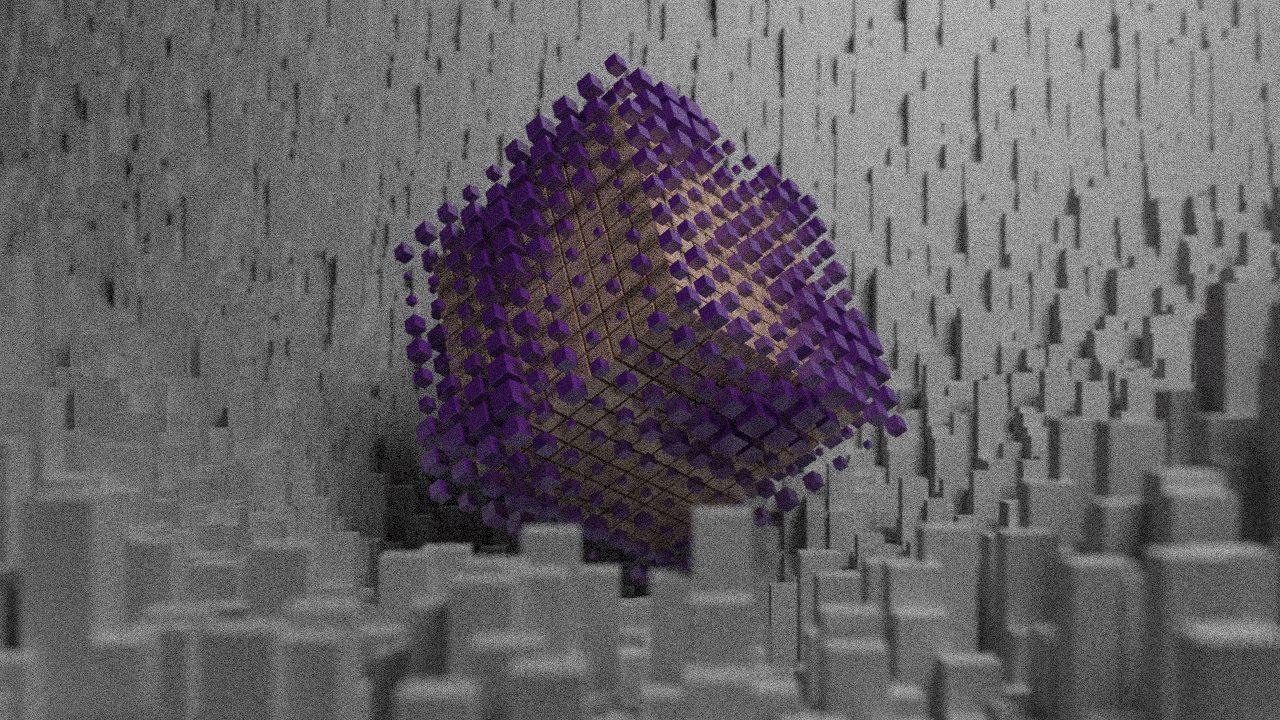
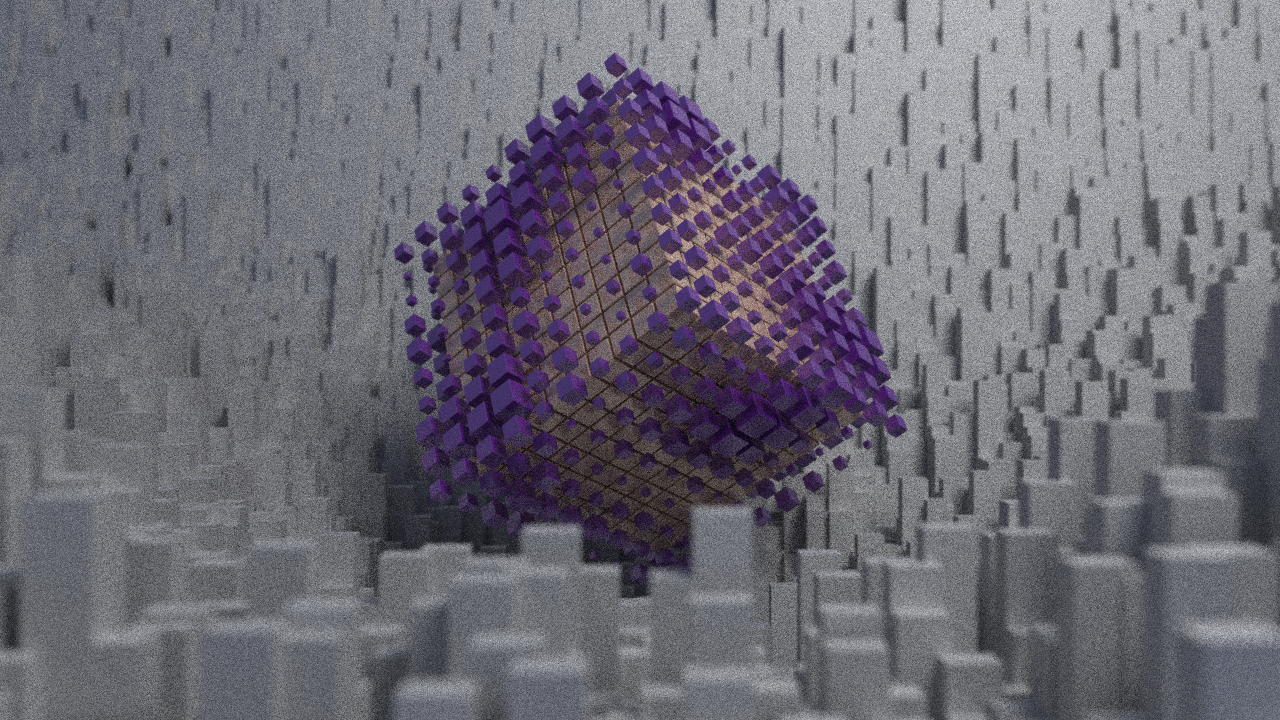
added background color - gpu version

diff --git a/apps/VulkanPathTracePrototype.cpp b/apps/VulkanPathTracePrototype.cpp
@@ -38,7 +38,8 @@ struct MaterialUniformBufferObject
 };
 struct PushConstantsSample
 {
-  int32_t nSamples;
+  alignas(4) int32_t nSamples;
+  alignas(4) Vec3f backgroundColor;
 };
 
 
@@ -191,7 +192,7 @@ public:
     return nullptr;
   }
 
-  void transferDataToGPU(Scene& scene, uint32_t renderWidth, uint32_t renderHeight)
+  void transferDataToGPU(Scene& scene, uint32_t renderWidth, uint32_t renderHeight, Vec3f& backgroundColor)
   {
     std::vector<float> vertices = scene.getVertices();
     std::vector<std::size_t> geometryIDs = scene.getGeometryIDs();
@@ -209,6 +210,14 @@ public:
     materialIndices.reserve(faceCount);
     std::vector<MaterialUniformBufferObject> materials;
     materials.reserve(scene.getMaterialCount());
+
+    backgroundColor = Vec3f::Zero();
+
+    BackgroundColor const * backgroundColorObject = dynamic_cast<BackgroundColor const *>(&scene.getBackground());
+    if(backgroundColorObject != nullptr)
+    {
+      backgroundColor = backgroundColorObject->getColor();
+    }
 
     for(int materialIdx = 0; materialIdx < scene.getMaterialCount(); materialIdx++)
     {
@@ -508,7 +517,7 @@ public:
     buildTopLevel();
   }
 
-  void buildComputeCommandBuffer(VkCommandBuffer commandBuffer, int32_t numSamplesPerRun, uint32_t width, uint32_t height)
+  void buildComputeCommandBuffer(VkCommandBuffer commandBuffer, int32_t numSamplesPerRun, const Vec3f& backgroundColor, uint32_t width, uint32_t height)
   {
     VkCommandBufferBeginInfo commandBufferBeginInfo = vks::initializers::commandBufferBeginInfo();
 
@@ -518,6 +527,7 @@ public:
     vkCmdBindDescriptorSets(commandBuffer, VK_PIPELINE_BIND_POINT_COMPUTE, pipelineLayout, 0, 1, &descriptorSet, 0, 0);
     PushConstantsSample pushConstants;
     pushConstants.nSamples = numSamplesPerRun;
+    pushConstants.backgroundColor = backgroundColor;
     vkCmdPushConstants(commandBuffer, pipelineLayout, VK_SHADER_STAGE_COMPUTE_BIT, 0, sizeof(PushConstantsSample), &pushConstants);
 
     uint32_t layoutSizeX = 4;
@@ -676,11 +686,12 @@ public:
 
     VulkanBuffer outputImageBuffer(deviceAndQueue, bufferSizeBytes, VK_BUFFER_USAGE_TRANSFER_SRC_BIT | VK_BUFFER_USAGE_TRANSFER_DST_BIT, VK_MEMORY_PROPERTY_HOST_VISIBLE_BIT | VK_MEMORY_PROPERTY_HOST_COHERENT_BIT);
 
-    transferDataToGPU(*job.scene, renderWidth, renderHeight);
+    Vec3f backgroundColor;
+    transferDataToGPU(*job.scene, renderWidth, renderHeight, backgroundColor);
     buildAccelerationStructure();
 
     VkClearColorValue clearColorValue;
-    for(int i=0; i<4; i++) clearColorValue.float32[i] = 0.0;
+    for(int i = 0; i < 4; i++) clearColorValue.float32[i] = 0.0;
 
     VulkanImage colorImageGPU = allocateDeviceImage(deviceAndQueue, VK_FORMAT_R32G32B32A32_SFLOAT, renderWidth, renderHeight, VK_IMAGE_USAGE_TRANSFER_SRC_BIT | VK_IMAGE_USAGE_TRANSFER_DST_BIT | VK_IMAGE_USAGE_STORAGE_BIT);
     deviceAndQueue->transitionImageLayoutAndClear(colorImageGPU, VK_IMAGE_LAYOUT_GENERAL, clearColorValue);
@@ -702,7 +713,7 @@ public:
     int sumSamples = 0;
     for(int i = 0; i < nRuns; i++)
     {
-      int nSamplesThisRun = i == nRuns -1 ? nSamples - nSamplesPerRun * (nRuns - 1)  : nSamplesPerRun;
+      int nSamplesThisRun = i == nRuns - 1 ? nSamples - nSamplesPerRun * (nRuns - 1) : nSamplesPerRun;
       sumSamples += nSamplesThisRun;
 
       VkCommandBuffer commandBuffer{ nullptr };
@@ -719,7 +730,7 @@ public:
       VkSemaphoreCreateInfo semaphoreCreateInfo{ VK_STRUCTURE_TYPE_SEMAPHORE_CREATE_INFO };
       VK_CHECK_RESULT(vkCreateSemaphore(logicalDevice, &semaphoreCreateInfo, nullptr, &newSemaphore));
 
-      buildComputeCommandBuffer(commandBuffer, nSamplesThisRun, colorImageGPU.getWidth(), colorImageGPU.getHeight());
+      buildComputeCommandBuffer(commandBuffer, nSamplesThisRun, backgroundColor, colorImageGPU.getWidth(), colorImageGPU.getHeight());
 
       VkPipelineStageFlags waitStageMask = VK_PIPELINE_STAGE_COMPUTE_SHADER_BIT;
 

diff --git a/include/Hasty/Scene.h b/include/Hasty/Scene.h
@@ -57,7 +57,6 @@ class Scene
 {
 public:
   Camera camera;
-  std::unique_ptr<Background> background;
 
   Scene(std::filesystem::path inputfilePath);
   ~Scene();
@@ -101,6 +100,7 @@ public:
   Vec3f getEmissionRadiance(const Vec3f& wo, unsigned int geomID, unsigned int primID) const;
   Vec3f getEmissionRadiance(const Vec3f& wo, const RayHit& hit) const;
   Vec3f getAlbedo(const SurfaceInteraction& interaction) const;
+  const Background& getBackground() const { return *background; }
   Vec3f evalEnvironment(const Ray& ray);
   bool hasLight() const;
   bool hasSurfaceLight() const;
@@ -118,6 +118,7 @@ protected:
   RTCDevice m_device;
   RTCScene m_embreeScene;
 
+  std::unique_ptr<Background> background;
   tinyobj::ObjReader reader;
   std::unique_ptr<std::discrete_distribution<uint32_t> > lightDistribution;
   std::vector<std::array<std::size_t, 2> > lightTriangles;

diff --git a/apps/Tests.cpp b/apps/Tests.cpp
@@ -44,8 +44,8 @@ TEST(vmath, rodriguesRotation)
   float pDensity;
   RotationBetweenTwoVectors<float, Vec3f> rot(sampleSphereSurfaceUniformly(rng, pDensity), sampleSphereSurfaceUniformly(rng, pDensity));
   Vec3f x0 = rng.uniform01Vec3f();
-  Vec3f x1 = rot * x0;
-  Vec3f x0prime = rot.applyInverse(x1);
+  Vec3f x1 = applyRotation(rot, x0);
+  Vec3f x0prime = applyRotationInverse(rot, x1);
   EXPECT_NEAR(x0[0], x0prime[0], 1e-4f);
   EXPECT_NEAR(x0[1], x0prime[1], 1e-4f);
   EXPECT_NEAR(x0[2], x0prime[2], 1e-4f);

diff --git a/include/Hasty/Environment.h b/include/Hasty/Environment.h
@@ -37,6 +37,8 @@ public:
     return color == Vec3f::Zero();
   }
 
+  Vec3f getColor() const { return color; }
+
 private:
   Vec3f color;
 
